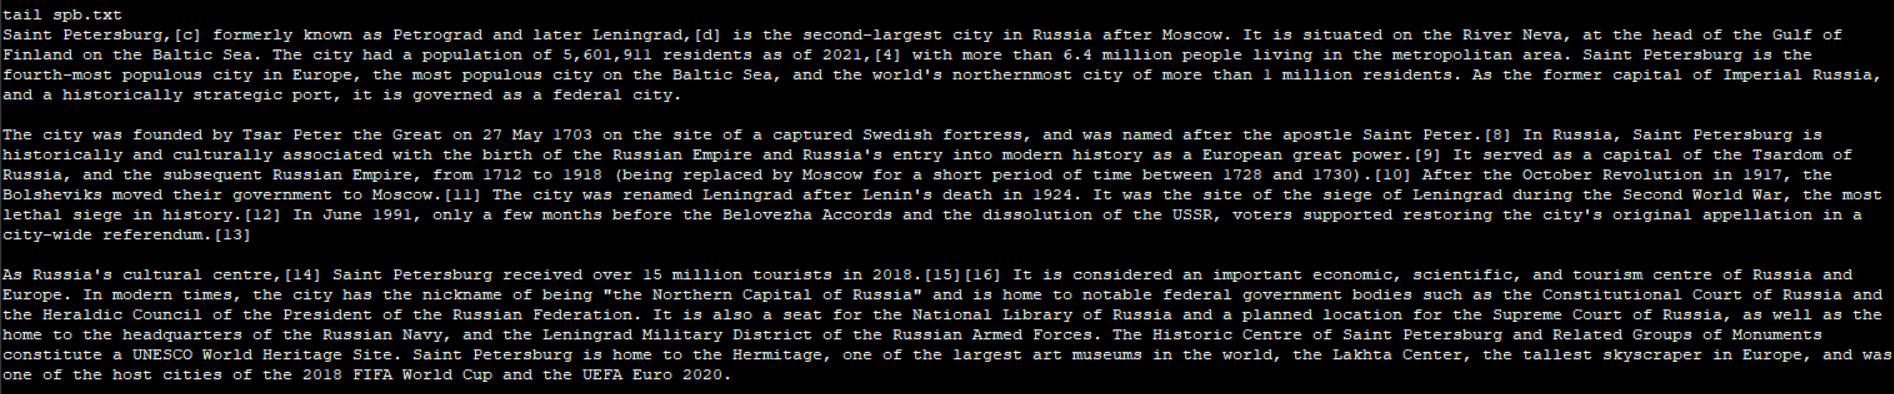
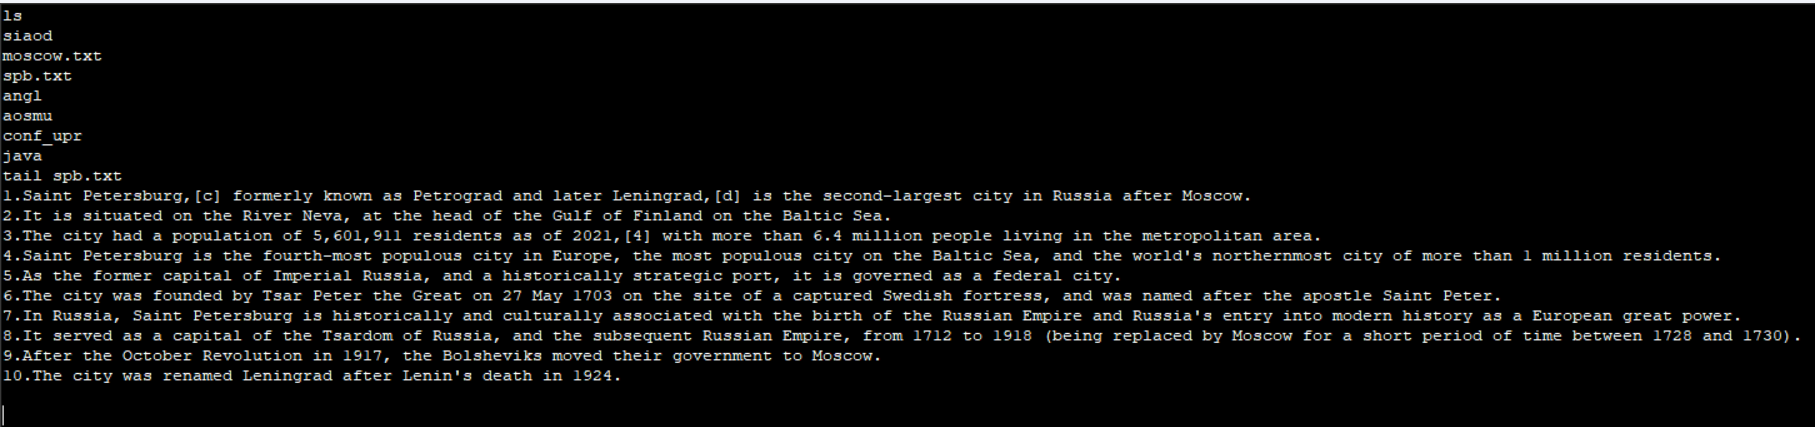
финалка с исправлениями

Changed region(s): [[0.0, 0.0, 1.0, 0.9746]]

diff --git a/dz1/conf1dz.py b/dz1/conf1dz.py
@@ -93,12 +93,13 @@ class ShellEmulator(cmd.Cmd):
     
     def do_tail(self, args):
         self.output_widget.insert(tk.END, "\n")
-        if not args:
+        if not args.strip():
             self.output_widget.insert(tk.END, "Использование: tail <имя_файла>\n")
             return
 
+        file_path = os.path.normpath(os.path.join(self.current_dir, args.strip())).replace('\\', '/').strip('/')
+
         try:
-            file_path = os.path.normpath(os.path.join(self.current_dir, args)).replace('\\', '/').strip('/')
             self.tar.close()
             with tarfile.open(self.fs_path, 'r:') as tar:
                 try:
@@ -107,21 +108,18 @@ class ShellEmulator(cmd.Cmd):
                         self.output_widget.insert(tk.END, f"Ошибка: {args} не является файлом\n")
                         return
                     
-                    f = tar.extractfile(member)
-                    if f is None:
-                        self.output_widget.insert(tk.END, f"Ошибка: невозможно прочитать файл {args}\n")
-                        return
-                    
-                    content = f.read().decode('utf-8')
-                    lines = content.splitlines()[-10:]
-                    if lines:
-                        self.output_widget.insert(tk.END, '\n'.join(lines) + '\n')
+                    with tar.extractfile(member) as f:
+                        content = f.read().decode('utf-8')
+                        lines = content.splitlines()
+                        # Вывод последних 10 строк
+                        tail_lines = lines[:10] if len(lines) >= 10 else lines
+                        for line in tail_lines:
+                            self.output_widget.insert(tk.END, line + '\n')
+                            
                 except KeyError:
                     self.output_widget.insert(tk.END, f"Ошибка: файл {args} не найден\n")
-                    
         except Exception as e:
             self.output_widget.insert(tk.END, f"Ошибка: {e}\n")
-        
         finally:
             self._load_virtual_fs()
     
@@ -184,11 +182,21 @@ class ShellEmulator(cmd.Cmd):
         finally:
             self._load_virtual_fs()
 
+    def default(self, line):
+        # Обработка неизвестной команды
+        self.output_widget.insert(tk.END, f"\nunknown syntax: {line}\n")
+
     def cmdloop(self):
         while True:
-            command = input(self.prompt)
-            if self.onecmd(command):
-                break
+            command = self.output_widget.get("end-2c linestart", "end-1c").strip()  # Получаем команду из виджета
+            if command:  # Проверяем, что команда не пустая
+                try:
+                    if self.onecmd(command):
+                        break
+                except Exception as e:
+                    self.output_widget.insert(tk.END, f"Ошибка: {str(e)}\n")  # Обработка исключений
+            else:
+                self.output_widget.insert(tk.END, "Введите команду.\n")  # Сообщение для пустой команды
 
 def run_shell():
     root = tk.Tk()
